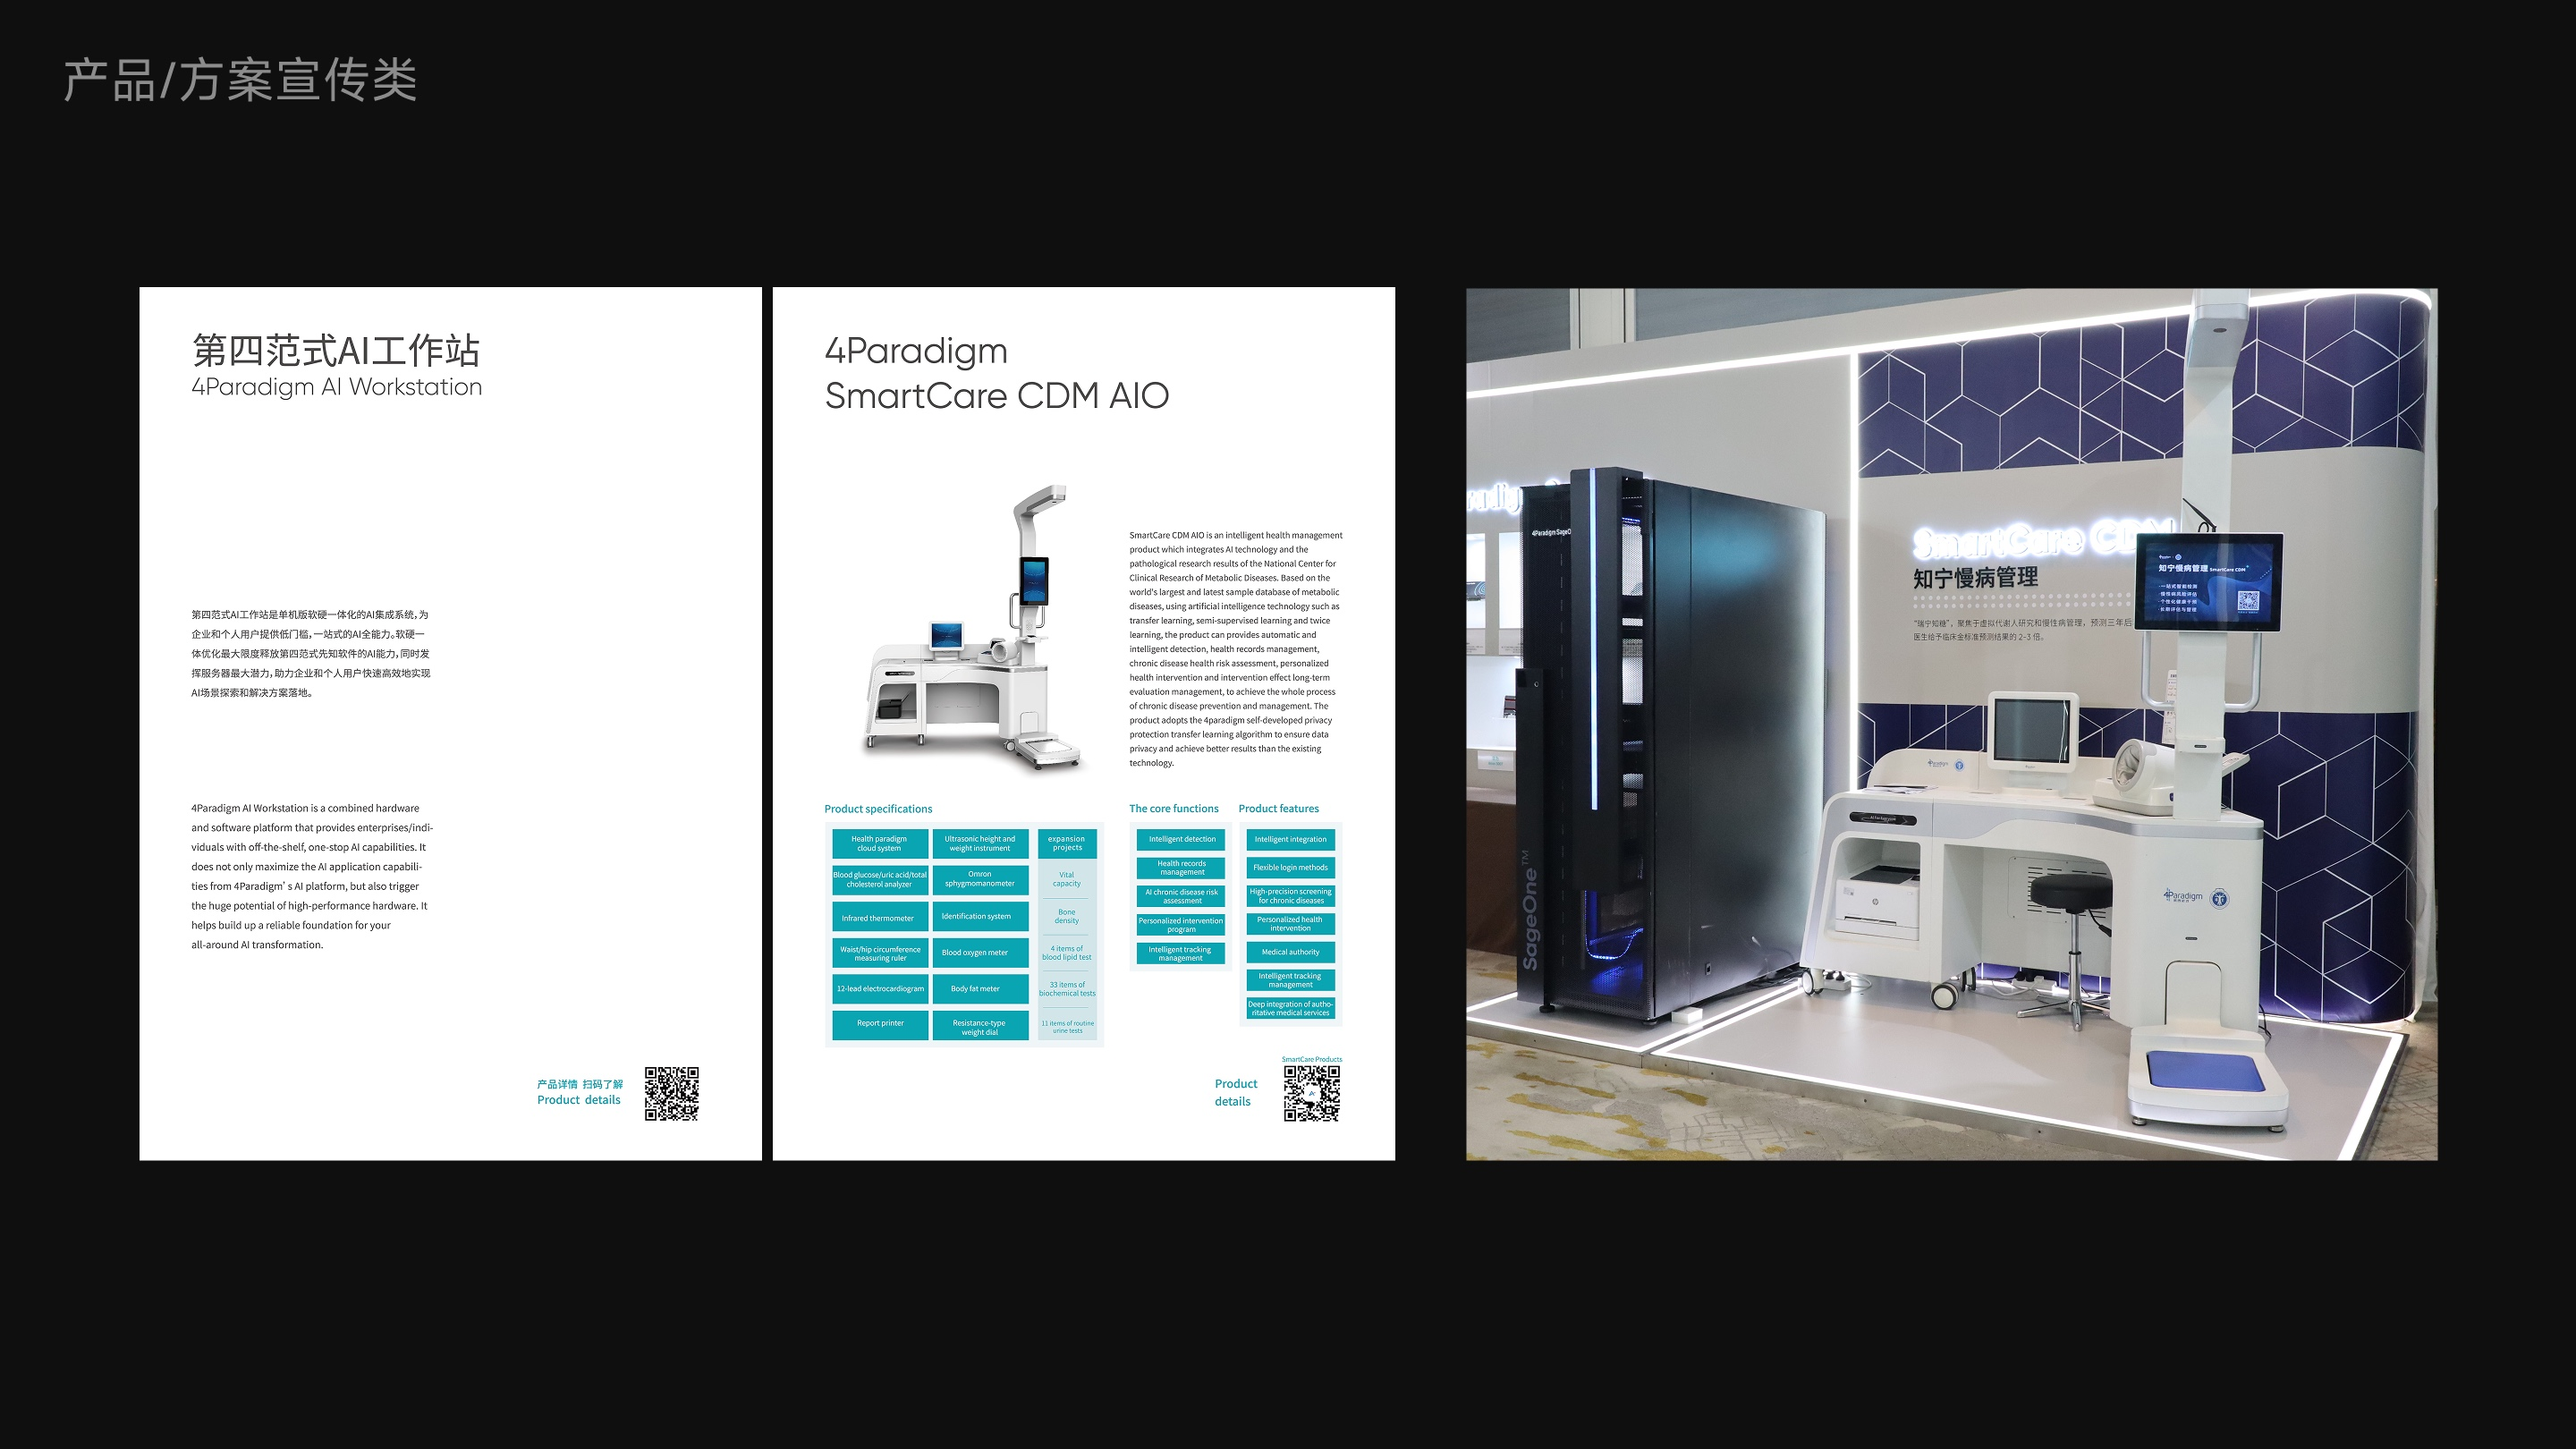
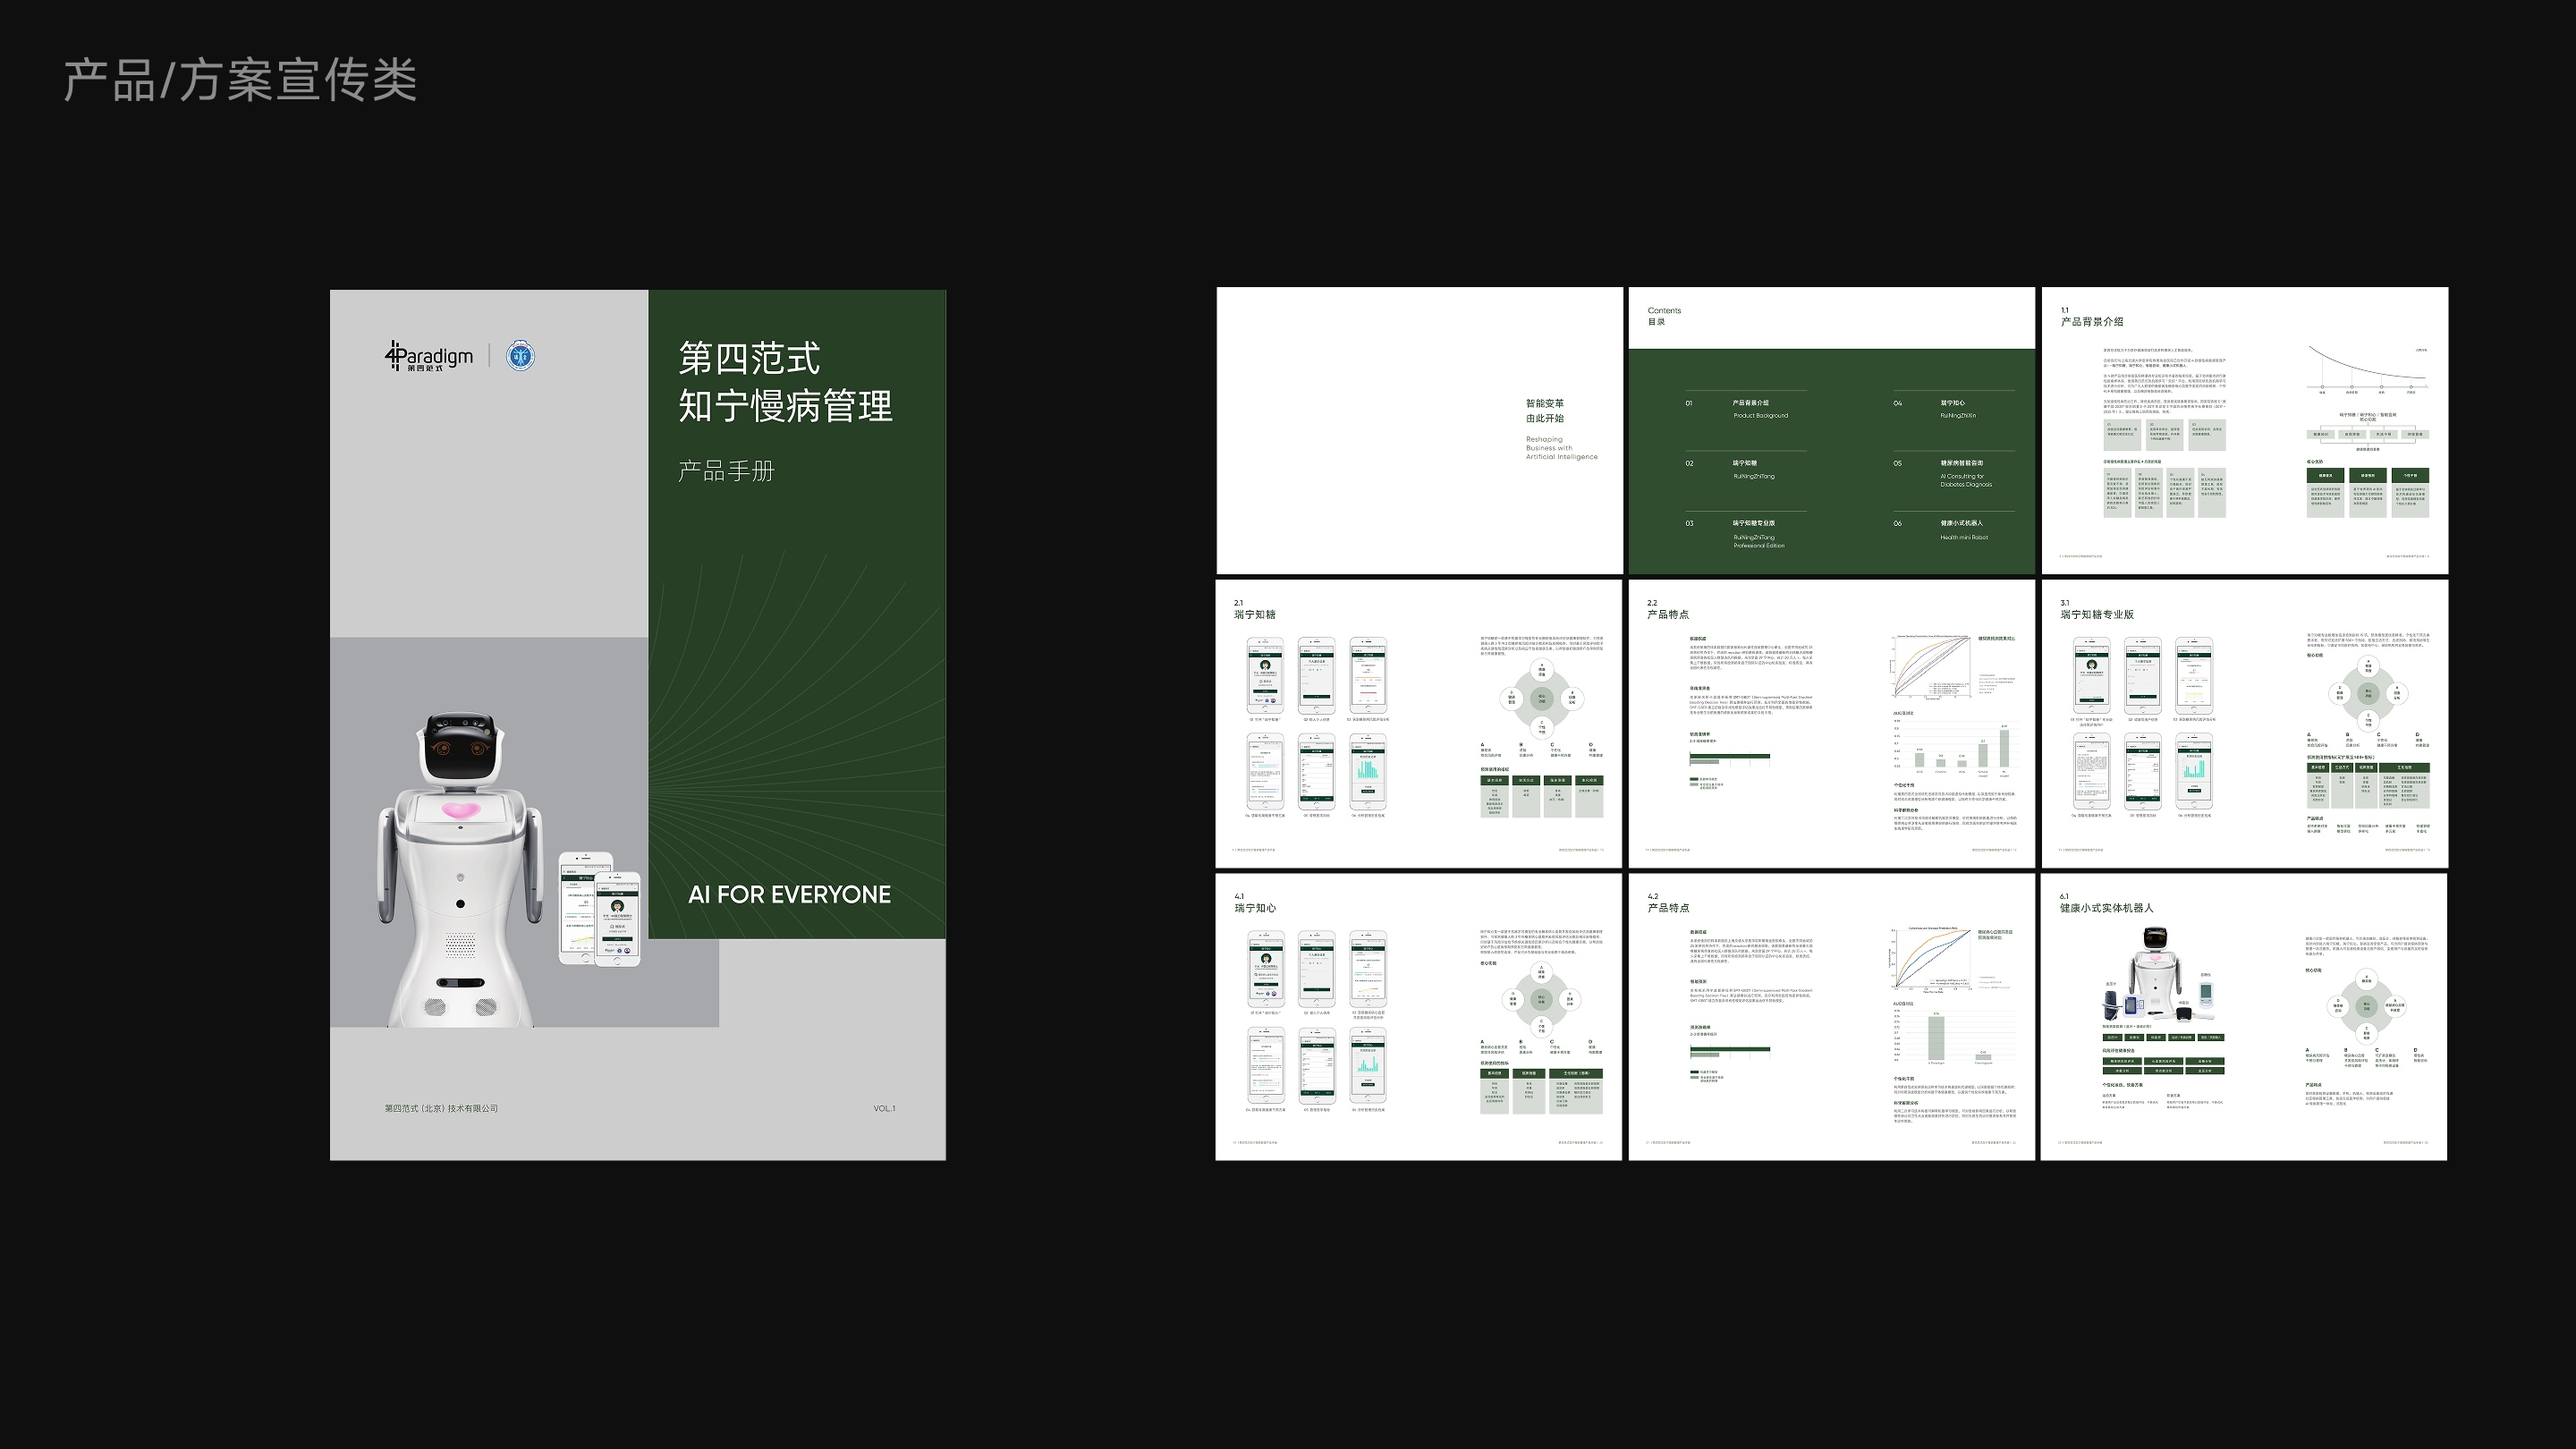
Add two section-divider images to 4Paradigm product delivery gallery

diff --git a/lib/work-projects.ts b/lib/work-projects.ts
@@ -131,7 +131,7 @@ const allWorkProjects: WorkProjectDetail[] = [
       "第四范式产品线覆盖硬件、平台、应用三类，对外宣传与交付资料快速增长，却缺少统一体系。作为品牌设计负责人，我对全品牌物料做了整体规划，分为企业形象、产品/方案宣传、说明资料与专项物料四大类，明确各类定位与设计标准。",
       "在此基础上建立彩页模板与规范，统一色彩、字体与版式网格，按硬件、平台、应用三类区分版式与主色；公司手册、白皮书、说明书与交付手册都在同一套视觉语言下延展。同时完成算力一体机与 AI 加速卡的外观视觉设计，让物料与产品实物保持一致的品牌印象。",
     ],
-    gallery: ["1.jpg", "2.jpg", "3.jpg", "4.jpg", "5.jpg", "6.jpg", "7.jpg", "8.jpg", "9.jpg", "10.jpg", "11.jpg", "12.jpg", "13.jpg"],
+    gallery: ["1.jpg", "2.jpg", "3.jpg", "4.jpg", "5.jpg", "6.jpg", "7.jpg", "8.jpg", "9.jpg", "10.jpg", "11.jpg", "12.jpg", "13.jpg", "14.jpg", "15.jpg"],
   },
   {
     slug: "4paradigm-culture-ip",
